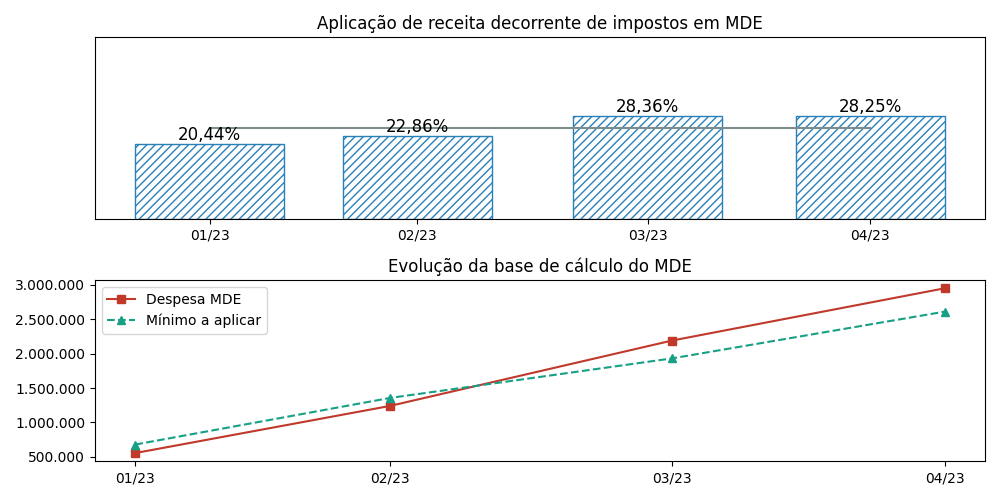
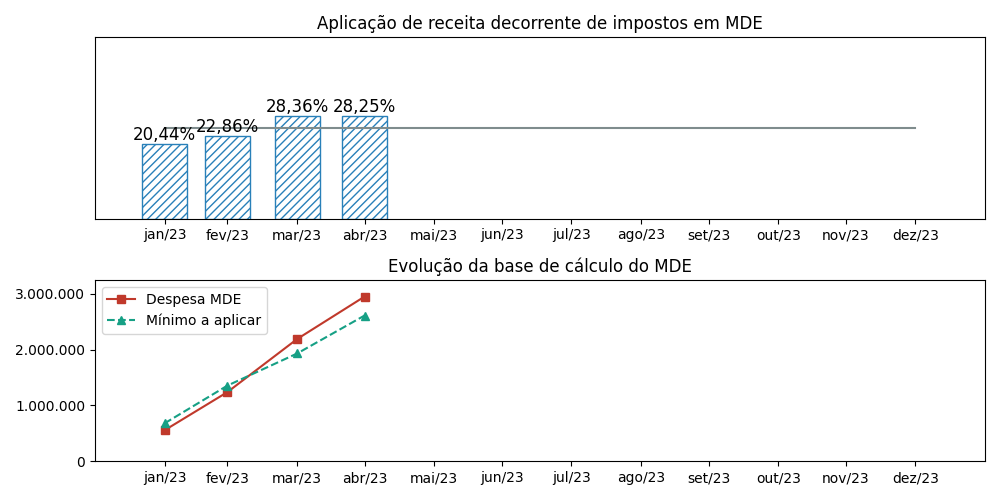
Os gráficos exibem todos os meses do ano no eixo x.

diff --git a/iddrs/kpi/topics/educacao.py b/iddrs/kpi/topics/educacao.py
@@ -1,3 +1,4 @@
+import numpy as np
 import pandas as pd
 
 import iddrs.kpi
@@ -19,30 +20,31 @@ class MDE(iddrs.kpi.KPIBase):
 
     def plot_evolucao_mde(self):
         df = self._df[['data_base', 'indice', 'minimo']].copy()
-        # df = utils.completa_data_base(df, self._data_base_final.year, list(df.columns), 'data_base')
-        # df.fillna(0, inplace=True)
-        # df['minimo'] = 0.25
-        df['data_base'] = pd.to_datetime(df['data_base'], format='%Y-%m-%d')
+        df = utils.completa_data_base(df, self._data_base_final.year, list(df.columns), 'data_base')
+        df['minimo'] = 0.25
         fig, ax = plt.subplot_mosaic("""A
                                         B""", figsize=config.figsize, sharex=False, sharey=False)
         ax['A'].set_title('Aplicação de receita decorrente de impostos em MDE')
-        ax['A'].xaxis.set_major_formatter(mdates.DateFormatter('%m/%y'))
+        ax['A'].xaxis.set_major_formatter(mdates.DateFormatter('%b/%y'))
         ax['A'].xaxis.set_ticks(df['data_base'])
         ax['A'].set_ylim(0, 0.5)
+        ax['A'].set_xlim(utils.xlimites_data_base(df['data_base']))
         ax['A'].yaxis.set_ticks([])
         ax['A'].plot(df['data_base'], df['minimo'], color=config.colors['secondary'])
         ax['A'].bar(df['data_base'], df['indice'], edgecolor=config.colors['primary'], hatch='////', color='white', width=20)
         for x, y in zip(df['data_base'], df['indice']):
+            if np.isnan(y): # Incluído para remover o aviso posx and posy should be finite values
+                continue
             ax['A'].text(x, y, '{:.2%}'.format(y).replace('.', ','), ha='center', va='bottom', fontsize=12)
         ax['A'].legend([]).remove()
 
         df = self._df[['data_base', 'receita_bc', 'despesa_bc']].copy()
         df['minimo'] = round(df['receita_bc'] * 0.25, 2)
-        # df = utils.completa_data_base(df, self._data_base_final.year, list(df.columns), 'data_base')
-        # df.fillna(0, inplace=True)
-        df['data_base'] = pd.to_datetime(df['data_base'], format='%Y-%m-%d')
+        df = utils.completa_data_base(df, self._data_base_final.year, list(df.columns), 'data_base')
+        ax['B'].set_xlim(utils.xlimites_data_base(df['data_base']))
+        ax['B'].set_ylim(ymin=0, ymax=(df[['despesa_bc', 'minimo']].max().max() * 1.1))
         ax['B'].set_title('Evolução da base de cálculo do MDE')
-        ax['B'].xaxis.set_major_formatter(mdates.DateFormatter('%m/%y'))
+        ax['B'].xaxis.set_major_formatter(mdates.DateFormatter('%b/%y'))
         ax['B'].xaxis.set_ticks(df['data_base'])
         ax['B'].plot(df['data_base'], df['despesa_bc'], marker='s', color=config.colors['negative'], label='Despesa MDE')
         ax['B'].plot(df['data_base'], df['minimo'], marker='^', color=config.colors['positive'], label='Mínimo a aplicar', linestyle='--')
@@ -73,31 +75,32 @@ class Fundeb(iddrs.kpi.KPIBase):
 
     def plot_evolucao_remuneracao_fundeb(self):
         df = self._df[['data_base', 'indice_remun', 'minimo_remun']].copy()
-        # df = utils.completa_data_base(df, self._data_base_final.year, list(df.columns), 'data_base')
-        # df.fillna(0, inplace=True)
-        # df['minimo_remun'] = 0.7
-        df['data_base'] = pd.to_datetime(df['data_base'], format='%Y-%m-%d')
+        df = utils.completa_data_base(df, self._data_base_final.year, list(df.columns), 'data_base')
+        df['minimo_remun'] = 0.7
         fig, ax = plt.subplot_mosaic("""A
                                                 B""", figsize=config.figsize, sharex=False, sharey=False)
         ax['A'].set_title('Aplicação da receita do Fundeb em remuneração')
-        ax['A'].xaxis.set_major_formatter(mdates.DateFormatter('%m/%y'))
+        ax['A'].xaxis.set_major_formatter(mdates.DateFormatter('%b/%y'))
         ax['A'].xaxis.set_ticks(df['data_base'])
         ax['A'].set_ylim(0, 1.2)
+        ax['A'].set_xlim(utils.xlimites_data_base(df['data_base']))
         ax['A'].yaxis.set_ticks([])
         ax['A'].plot(df['data_base'], df['minimo_remun'], color=config.colors['secondary'])
         ax['A'].bar(df['data_base'], df['indice_remun'], edgecolor=config.colors['primary'], hatch='////', color='white',
                     width=20)
         for x, y in zip(df['data_base'], df['indice_remun']):
+            if np.isnan(y): # Incluído para remover o aviso posx and posy should be finite values
+                continue
             ax['A'].text(x, y, '{:.2%}'.format(y).replace('.', ','), ha='center', va='bottom', fontsize=12)
         ax['A'].legend([]).remove()
 
         df = self._df[['data_base', 'receita_bc_remun', 'despesa_bc_remun']].copy()
         df['minimo_remun'] = round(df['receita_bc_remun'] * 0.7, 2)
-        # df = utils.completa_data_base(df, self._data_base_final.year, list(df.columns), 'data_base')
-        # df.fillna(0, inplace=True)
-        df['data_base'] = pd.to_datetime(df['data_base'], format='%Y-%m-%d')
+        df = utils.completa_data_base(df, self._data_base_final.year, list(df.columns), 'data_base')
+        ax['B'].set_xlim(utils.xlimites_data_base(df['data_base']))
+        ax['B'].set_ylim(ymin=0, ymax=(df[['minimo_remun', 'despesa_bc_remun']].max().max() * 1.1))
         ax['B'].set_title('Evolução da base de cálculo da Remuneração/Fundeb')
-        ax['B'].xaxis.set_major_formatter(mdates.DateFormatter('%m/%y'))
+        ax['B'].xaxis.set_major_formatter(mdates.DateFormatter('%b/%y'))
         ax['B'].xaxis.set_ticks(df['data_base'])
         ax['B'].plot(df['data_base'], df['despesa_bc_remun'], marker='s', color=config.colors['negative'], label='Despesa Remuneração/Fundeb')
         ax['B'].plot(df['data_base'], df['minimo_remun'], marker='^', color=config.colors['positive'],
@@ -127,14 +130,13 @@ class Educacao(iddrs.kpi.KPIBase):
 
     def plot_evolucao_receita_despesa(self):
         df = db.exec_sql(f'SELECT data_base, arrecadado, empenhado, liquidado FROM indicadores."RECEITA_DESPESA_EDUCACAO" WHERE data_base BETWEEN \'{self._data_base_inicial}\' AND \'{self._data_base_final}\' ORDER BY data_base ASC')
-        # df = utils.completa_data_base(df, self._data_base_final.year, list(df.columns), 'data_base')
-        # df.fillna(0, inplace=True)
-        df['data_base'] = pd.to_datetime(df['data_base'], format='%Y-%m-%d')
+        df = utils.completa_data_base(df, self._data_base_final.year, list(df.columns), 'data_base')
         fig, ax = plt.subplots(figsize=config.figsize)
-        ax.text(0, 1.1, 'Evolução da receita e despesa da educação', fontsize=14, fontweight='bold',
-                transform=ax.transAxes)
-        ax.text(0, 1.05, 'valores acumulados | receita arrecadada | despesa empenhada e liquidada', fontsize=12, transform=ax.transAxes)
-        ax.xaxis.set_major_formatter(mdates.DateFormatter('%m/%y'))
+        fig.suptitle('Evolução da receita e despesa da educação')
+        ax.set_title('Arrecadado | empenhado | liquidado')
+        ax.set_xlim(utils.xlimites_data_base(df['data_base']))
+        ax.set_ylim(ymin=0, ymax=(df[['arrecadado', 'empenhado']].max().max() * 1.1))
+        ax.xaxis.set_major_formatter(mdates.DateFormatter('%b/%y'))
         ax.xaxis.set_ticks(df['data_base'])
         ax.yaxis.set_major_formatter(FuncFormatter(lambda x, pos: f'{x:,.0f}'.replace(',', '_').replace('.', ',').replace('_', '.')))
         ax.plot(df['data_base'], df['arrecadado'], color=config.colors['positive'], label='Arrecadado', marker='o')

diff --git a/iddrs/kpi/topics/saude.py b/iddrs/kpi/topics/saude.py
@@ -1,10 +1,10 @@
 import pandas as pd
-
 import iddrs.kpi
 from iddrs import db, utils, config
 import matplotlib.pyplot as plt
 import matplotlib.dates as mdates
 from matplotlib.ticker import FuncFormatter
+import numpy as np
 
 class ASPS(iddrs.kpi.KPIBase):
 
@@ -19,30 +19,31 @@ class ASPS(iddrs.kpi.KPIBase):
 
     def plot_evolucao_asps(self):
         df = self._df[['data_base', 'indice', 'minimo']].copy()
-        # df = utils.completa_data_base(df, self._data_base_final.year, list(df.columns), 'data_base')
-        # df.fillna(0, inplace=True)
-        df['data_base'] = pd.to_datetime(df['data_base'], format='%Y-%m-%d')
+        df = utils.completa_data_base(df, self._data_base_final.year, list(df.columns), 'data_base')
         fig, ax = plt.subplot_mosaic("""A
                                                 B""", figsize=config.figsize, sharex=False, sharey=False)
         ax['A'].set_title('Aplicação de receita decorrente de impostos em ASPS')
-        ax['A'].xaxis.set_major_formatter(mdates.DateFormatter('%m/%y'))
+        ax['A'].xaxis.set_major_formatter(mdates.DateFormatter('%b/%y'))
         ax['A'].xaxis.set_ticks(df['data_base'])
         ax['A'].set_ylim(0, 0.5)
+        ax['A'].set_xlim(utils.xlimites_data_base(df['data_base']))
         ax['A'].yaxis.set_ticks([])
         ax['A'].plot(df['data_base'], df['minimo'], color=config.colors['secondary'])
         ax['A'].bar(df['data_base'], df['indice'], edgecolor=config.colors['primary'], hatch='////', color='white',
                     width=20)
         for x, y in zip(df['data_base'], df['indice']):
+            if np.isnan(y): # Incluído para remover o aviso posx and posy should be finite values
+                continue
             ax['A'].text(x, y, '{:.2%}'.format(y).replace('.', ','), ha='center', va='bottom', fontsize=16)
         ax['A'].legend([]).remove()
 
         df = self._df[['data_base', 'receita_bc', 'despesa_bc']].copy()
         df['minimo'] = round(df['receita_bc'] * 0.15, 2)
-        # df = utils.completa_data_base(df, self._data_base_final.year, list(df.columns), 'data_base')
-        # df.fillna(0, inplace=True)
-        df['data_base'] = pd.to_datetime(df['data_base'], format='%Y-%m-%d')
+        df = utils.completa_data_base(df, self._data_base_final.year, list(df.columns), 'data_base')
         ax['B'].set_title('Evolução da base de cálculo do ASPS')
-        ax['B'].xaxis.set_major_formatter(mdates.DateFormatter('%m/%y'))
+        ax['B'].set_xlim(utils.xlimites_data_base(df['data_base']))
+        ax['B'].set_ylim(ymin=0, ymax=(df[['despesa_bc', 'minimo']].max().max() * 1.1))
+        ax['B'].xaxis.set_major_formatter(mdates.DateFormatter('%b/%y'))
         ax['B'].xaxis.set_ticks(df['data_base'])
         ax['B'].plot(df['data_base'], df['despesa_bc'], marker='s', color=config.colors['negative'],
                      label='Despesa ASPS')
@@ -73,15 +74,14 @@ class Saude(iddrs.kpi.KPIBase):
 
     def plot_evolucao_receita_despesa(self):
         df = db.exec_sql(f'SELECT data_base, arrecadado, empenhado, liquidado FROM indicadores."RECEITA_DESPESA_SAUDE" WHERE data_base BETWEEN \'{self._data_base_inicial}\' AND \'{self._data_base_final}\' ORDER BY data_base ASC')
-        # df = utils.completa_data_base(df, self._data_base_final.year, list(df.columns), 'data_base')
-        # df.fillna(0, inplace=True)
-        df['data_base'] = pd.to_datetime(df['data_base'], format='%Y-%m-%d')
+        df = utils.completa_data_base(df, self._data_base_final.year, list(df.columns), 'data_base')
         fig, ax = plt.subplots(figsize=config.figsize)
-        ax.text(0, 1.1, 'Evolução da receita e despesa da saúde', fontsize=14, fontweight='bold',
-                transform=ax.transAxes)
-        ax.text(0, 1.05, 'valores acumulados | receita arrecadada | despesa empenhada e liquidada', fontsize=12, transform=ax.transAxes)
-        ax.xaxis.set_major_formatter(mdates.DateFormatter('%m/%y'))
+        fig.suptitle('Evolução da receita e despesa da saúde')
+        ax.set_title('Arrecadado | empenhado | liquidado')
+        ax.xaxis.set_major_formatter(mdates.DateFormatter('%b/%y'))
         ax.xaxis.set_ticks(df['data_base'])
+        ax.set_xlim(utils.xlimites_data_base(df['data_base']))
+        ax.set_ylim(ymin=0, ymax=(df[['arrecadado', 'empenhado']].max().max() * 1.1))
         ax.yaxis.set_major_formatter(FuncFormatter(lambda x, pos: f'{x:,.0f}'.replace(',', '_').replace('.', ',').replace('_', '.')))
         ax.plot(df['data_base'], df['arrecadado'], color=config.colors['positive'], label='Arrecadado', marker='o')
         ax.plot(df['data_base'], df['empenhado'], color=config.colors['negative'], label='Empenhado', marker='s')

diff --git a/iddrs/utils.py b/iddrs/utils.py
@@ -1,4 +1,4 @@
-from datetime import date
+from datetime import date, timedelta, datetime
 import calendar
 import pandas as pd
 import numpy as np
@@ -39,3 +39,20 @@ def completa_data_base(df: pd.DataFrame, ano: int, campos: list, index: str) -> 
             continue
         df1[campo] = pd.concat([df[campo], pd.Series(np.nan, index=list(range(n, 12)))])
     return df1
+
+def xlimites_data_base(data_base: pd.Series) -> tuple:
+    inicio = data_base.min()
+    fim = data_base.max()
+    ano = inicio.year
+    mes = inicio.month - 1
+    if mes < 1:
+        mes = 12
+        ano -= 1
+    anterior = get_database(ano, mes)
+    ano = fim.year
+    mes = fim.month + 1
+    if mes > 12:
+        mes = 1
+        ano += 1
+    posterior = get_database(ano, mes)
+    return(anterior, posterior)
